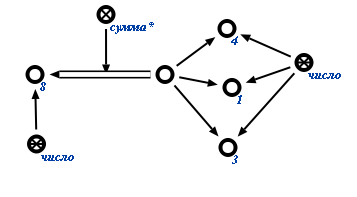
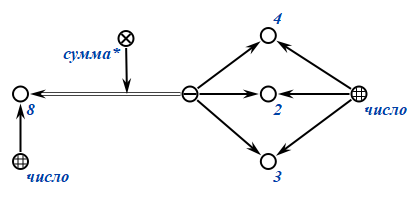
SD of numbers updated

diff --git a/Contents/chapter2/sd_ostis_sys_models/sd_kb/sd_numbers.tex b/Contents/chapter2/sd_ostis_sys_models/sd_kb/sd_numbers.tex
@@ -7,12 +7,19 @@
 \scnheader{Предметная область чисел и числовых структур}
 \scniselement{предметная область}
 \scnsdmainclasssingle{число}
-\scnsdclass{натуральное число;целое число;рациональное число;иррациональное число;действительное число;комплексное число;отрицательное число;положительное число;арифметическое выражение;арифметическая операция;Число Пи;Число нуль;Число один;Мнимая единица;числовая структура;система счисления;десятичная система счисления;двоичная система счисления;шестнадцатеричная система счисления}
+\scnsdclass{натуральное число;целое число;рациональное число;иррациональное число;действительное число;комплексное число;отрицательное число;положительное число;арифметическое выражение;арифметическая операция;Число Пи;Число нуль;Число один;Мнимая единица;числовая структура;система счисления;десятичная система счисления;двоичная система счисления;шестнадцатеричная система счисления; дробь; обыкновенная дробь; десятичная дробь; цифра; арабская цифра; римская цифра}
 \scnsdrelation{противоположные числа*;модуль*;сумма*;произведение*;возведение в степень*;больше*;равенство*;больше или равно*}
 
 \scnheader{число}
 \scnidtf{множество чисел}
-\scnexplanation{\textbf{\textit{число}} – это основное понятие математики, используемое для количественной характеристики, сравнения, нумерации объектов и их частей. Письменными знаками для обозначения чисел служат цифры, а также символы математических операций.}
+\scnsubset{абстрактная терминальная сущность}
+\scnexplanation{\textbf{\textit{число}} – это основное понятие математики, используемое для количественной характеристики, сравнения, нумерации объектов и их частей. Письменными знаками для обозначения чисел служат \textit{цифры}.}
+
+\scnheader{цифра}
+\scnidtf{множество цифр}
+\scnsubset{внутренний файл ostis-системы}
+\scnrelfromlist{включение}{арабская цифра;римская цифра}
+\scnexplanation{\textbf{\textit{цифра}} -– это множество файлов, обозначающих вхождение этой цифры во всевозможные записи чисел с помощью этой цифры.}
 
 \scnheader{натуральное число}
 \scnidtf{множество натуральных чисел}
@@ -26,13 +33,27 @@
 
 \scnheader{рациональное число}
 \scnidtf{множество рациональных чисел}
-\scnexplanation{\textbf{\textit{рациональное число}} – это число, представляемое обыкновенной дробью, где числитель — \textit{целое число}, а знаменатель — \textit{натуральное число}.}
-\scnsubset{вещественное число}
+\scnexplanation{\textbf{\textit{рациональное число}} – это число, представляемое \textit{обыкновенной дробью}, где числитель — \textit{целое число}, а знаменатель — \textit{натуральное число}.}
+\scnsubset{действительное число}
+
+\scnheader{дробь}
+\scnidtf{множество дробей}
+\scnrelfromlist{включение}{обыкновенная дробь; десятичная дробь}
+\scnexplanation{\textbf{\textit{дробь}} - это число, состоящее из одной или нескольких равных частей (долей) единицы}
+
+\scnheader{обыкновення дробь}
+\scnidtf{множество обыкновенных дробей}
+\scnidtf{множество простых дробей}
+\scnexplanation{\textbf{\textit{обыкновенная дробь}} - запись \textit{рационального числа} в виде ${\displaystyle \pm {\frac {m}{n}}}$ или ${\pm m/n}$, где ${n\neq 0}$.Горизонтальная или косая черта обозначает знак деления, в результате которого получается частное. Делимое называется числителем дроби, а делитель — знаменателем.}
+
+\scnheader{десятичная дробь}
+\scnidtf{множество десятичных дробей}
+\scnexplanation{\textbf{\textit{десятичная дробь}} - Десяти́чная дробь — разновидность дроби, которая представляет собой способ представления действительных чисел в виде ${\pm d_m \ldots d_1 d_0{,} d_{-1} d_{-2} \ldots}$, где , — десятичная запятая, служащая разделителем между целой и дробной частью числа, ${d_{k}}$m — десятичные цифры.}
 
 \scnheader{иррациональное число}
 \scnidtf{множество иррациональных чисел}
 \scnexplanation{\textbf{\textit{иррациональное число}} – это \textit{вещественное число}, которое не является рациональным, то есть не может быть представлено в виде дроби, где числитель — \textit{целое число}, знаменатель — \textit{натуральное число}. Любое \textbf{\textit{иррациональное число}} может быть представлено в виде бесконечной непериодической десятичной дроби.}
-\scnsubset{вещественное число}
+\scnsubset{действительное число}
 
 \scnheader{действительное число}
 \scnidtf{вещественное число}
@@ -55,7 +76,7 @@
 \scnexplanation{\textbf{\textit{положительное число}} – число \textit{больше*} нуля.}
 
 \scnheader{противоположные числа*}
-\scniselement{бинарное отношение}
+\scniselement{бинарное неориентированное отношение}
 \scnexplanation{\textbf{\textit{противоположные числа*}} – \textit{отношение}, связывающее два числа, одно из которых является \textit{отрицательным числом}, второе – \textit{положительным}, при этом \textit{модули*} этих чисел \textit{равны*}.}
 
 \scnheader{модуль*}
@@ -82,12 +103,7 @@
 
 Отдельно отметим, что каждая связка отношения \textbf{\textit{сумма*}} вида a = b+c может также трактоваться и как запись о вычитании чисел, например b = a-c, в связи с чем \textit{арифметическая операция} разности чисел отдельно не вводится.}
 \scnrelfrom{описание типичного экземпляра}{
-\scnfilelong{
-\begin{figure}[H]
-\centering
-\includegraphics[width=0.8\linewidth]{figures/sd_numbers/sum.png}
-\end{figure}
-}}
+\scnfilescg{figures/sd_numbers/sum.png}}
 
 \scnheader{произведение*}
 \scnidtf{умножение*}
@@ -99,12 +115,7 @@
 
 Отдельно отметим, что каждая связка отношения \textbf{\textit{произведение*}} вида a = b*c может также трактоваться и как запись о делении чисел, например b = a/c, в связи с чем \textit{арифметическая операция} деления чисел отдельно не вводится.}
 \scnrelfrom{описание типичного экземпляра}{
-\scnfilelong{
-\begin{figure}[H]
-\centering
-\includegraphics[width=0.8\linewidth]{figures/sd_numbers/multiplication.png}
-\end{figure}
-}}
+\scnfilescg{figures/sd_numbers/multiplication.png}}
 
 \scnheader{возведение в степень*}
 \scniselement{арифметическая операция}
@@ -115,12 +126,7 @@
 
 Отдельно отметим, что каждая связка отношения \textbf{\textit{возведение в степень*}} вида a = $b^c$ может также трактоваться и как запись об извлечении корня или взятии логарифма, в связи с чем \textit{арифметические операции} извлечения корня и взятия логарифма отдельно не вводится.}
 \scnrelfrom{описание типичного экземпляра}{
-\scnfilelong{
-\begin{figure}[H]
-\centering
-\includegraphics[width=0.5\linewidth]{figures/sd_numbers/pow.png}
-\end{figure}
-}}
+\scnfilescg{figures/sd_numbers/pow.png}}
 
 \scnheader{больше*}
 \scniselement{арифметическая операция}
@@ -128,12 +134,7 @@
 \scniselement{отношение строгого порядка}
 \scnexplanation{\textbf{\textit{больше*}} – это \textit{арифметическая операция} сравнения чисел. Из двух чисел на координатной прямой больше то, которое расположено правее. Соответственно, первым компонентом связки \textit{отношения} \textbf{\textit{больше*}} является большее из двух \textit{чисел}.}
 \scnrelfrom{описание типичного экземпляра}{
-\scnfilelong{
-\begin{figure}[H]
-\centering
-\includegraphics[width=0.5\linewidth]{figures/sd_numbers/more.png}
-\end{figure}
-}}
+\scnfilescg{figures/sd_numbers/more.png}}
 
 \scnheader{равенство*}
 \scnidtf{равенство чисел*}
@@ -144,25 +145,14 @@
 \scniselement{транзитивное отношение}
 \scnexplanation{\textbf{\textit{равенство*}} – отношение взаимной заменяемости \textit{чисел}, которые именно в силу этой заменяемости и считаются равными. Равные \textit{числа} на числовой прямой совпадают.}
 \scnrelfrom{описание типичного экземпляра}{
-\scnfilelong{
-\begin{figure}[H]
-\centering
-\includegraphics[width=0.5\linewidth]{figures/sd_numbers/equality.png}
-\end{figure}
-}}
-
+\scnfilescg{figures/sd_numbers/equality.png}}
 \scnheader{больше или равно*}
 \scniselement{арифметическая операция}
 \scniselement{бинарное отношение}
 \scniselement{отношение нестрогого порядка}
 \scnexplanation{\textbf{\textit{больше или равно*}} – это \textit{арифметическая операция} сравнения чисел, при которой первое \textit{число} (первый компонент связки) может быть \textit{больше*} второго или \textit{равняться*} ему.}
 \scnrelfrom{описание типичного экземпляра}{
-\scnfilelong{
-\begin{figure}[H]
-\centering
-\includegraphics[width=0.5\linewidth]{figures/sd_numbers/more_or_equal.png}
-\end{figure}
-}}
+\scnfilescg{figures/sd_numbers/more.png}}
 
 \scnheader{Число Пи}
 \scniselement{иррациональное число}
